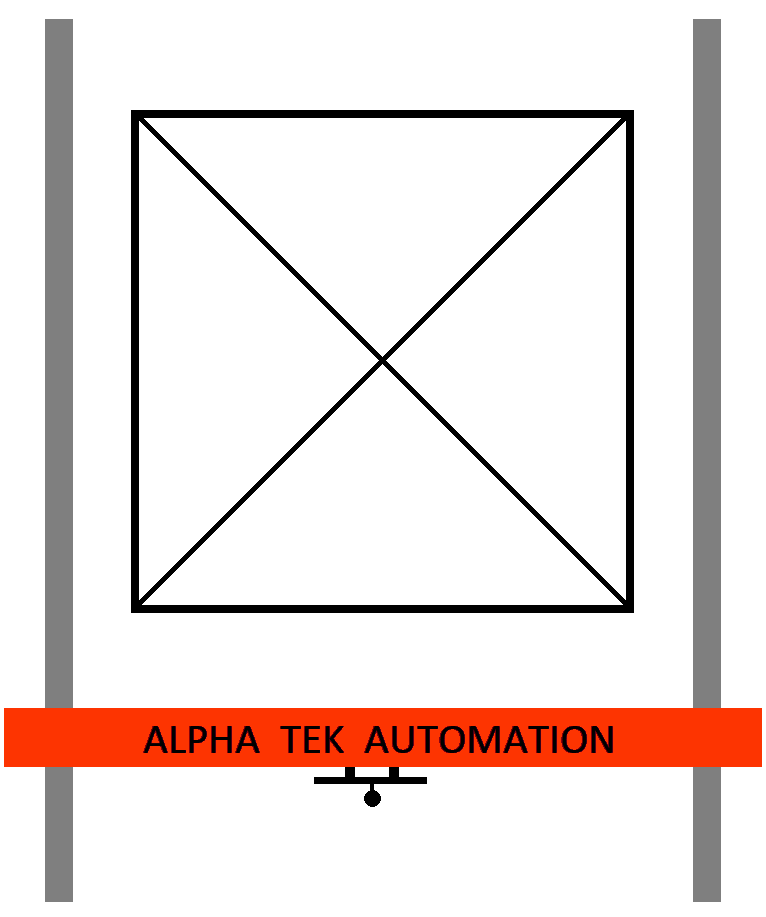
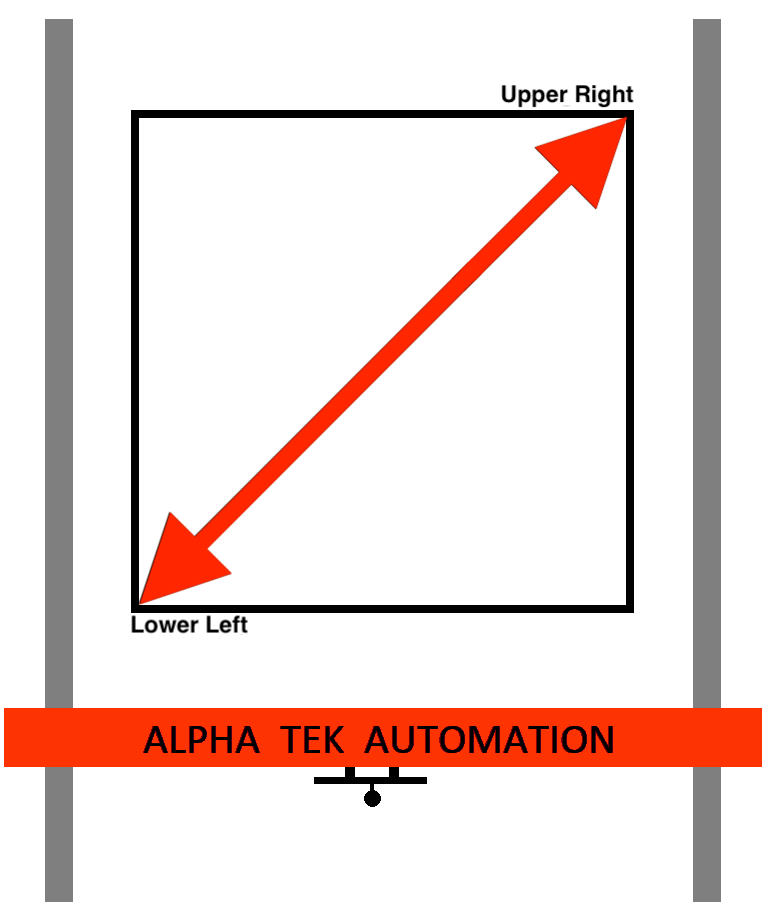
Refactor (#3)
* Update script.js

* bugs fixed, new features and design

diff --git a/script.js b/script.js
@@ -24,6 +24,40 @@ function showImage(imageId) {
   image.style.display = image.style.display === 'block' ? 'none' : 'block';
 }
 
+function decimalToInches(decimal) {
+    if (decimal < 0) {
+        throw new Error("Input must be a non-negative number");
+    }
+
+    const inches = Math.floor(decimal); // Get the whole inches
+    const fraction = decimal - inches; // Get the fractional part
+    const fractionsOfInch = 16; // Precision to 1/16 of an inch
+    const fractionRounded = Math.round(fraction * fractionsOfInch); // Round to nearest 1/16
+
+    // Handle special cases where fractionRounded equals fractionsOfInch
+    if (fractionRounded === fractionsOfInch) {
+        return `${inches + 1}"`;
+    }
+
+    const gcd = (a, b) => (b === 0 ? a : gcd(b, a % b)); // Helper function for greatest common divisor
+    const denominator = fractionsOfInch;
+    const numerator = fractionRounded;
+
+    // Reduce fraction
+    const divisor = gcd(numerator, denominator);
+    const simplifiedNumerator = numerator / divisor;
+    const simplifiedDenominator = denominator / divisor;
+
+    // Format the result
+    if (inches === 0 && simplifiedNumerator > 0) {
+        return `${simplifiedNumerator}/${simplifiedDenominator}"`; // Only fraction
+    } else if (simplifiedNumerator > 0) {
+        return `${inches} ${simplifiedNumerator}/${simplifiedDenominator}"`; // Whole inches and fraction
+    } else {
+        return `${inches}"`; // Only whole inches
+    }
+}
+
 document.getElementById("calcForm").addEventListener("submit", function (event) {
   event.preventDefault();
 
@@ -45,12 +79,11 @@ document.getElementById("calcForm").addEventListener("submit", function (event) 
   // Determine adjustments based on angle error and quadrilateral distortion
   if (Math.abs(angleError) > 0.01) { // Non-square threshold
       const shiftDistance = Math.tan(angleError * (Math.PI / 180)) * railDistance;
-
       if (shiftDistance > 0) {
-          adjustmentMessage = `Shift the left wheel forward by ${shiftDistance.toFixed(2)} inches or the right wheel backward by ${shiftDistance.toFixed(2)} inches.`;
-      } else {
-          adjustmentMessage = `Shift the right wheel forward by ${Math.abs(shiftDistance).toFixed(2)} inches or the left wheel backward by ${Math.abs(shiftDistance).toFixed(2)} inches.`;
-      }
+        adjustmentMessage = `Shift the left wheel forward by ${decimalToInches(shiftDistance)} or the right wheel backward by ${decimalToInches(shiftDistance)}.`;
+    } else {
+        adjustmentMessage = `Shift the right wheel forward by ${decimalToInches(Math.abs(shiftDistance).toFixed(2))} or the left wheel backward by ${decimalToInches(Math.abs(shiftDistance).toFixed(2))}.`;
+    }
   } else {
       adjustmentMessage = "The rig is properly calibrated.";
   }

diff --git a/index.html b/index.html
@@ -51,6 +51,20 @@
                 <input type="text" id="rails" name="rails" placeholder="Enter rails" required>
             </div>
 
+            <div class="form-group island" style="flex: 1 1 calc(25% - 20px); min-width: 200px;">
+                <label for="ll-ur-or-lr-ul">Which diagonal is longer?
+                    <button type="button" class="info-button" onclick="showImage('all-diagonals-image')">?</button>
+                </label>
+                <img id="all-diagonals-image" class="info-image" src="img/all_diagonals.png" alt="Diagonals Info Image">
+                <select id="ll-ur-or-lr-ul" name="ll-ur-or-lr-ul" style="min-width: 292px;">
+                    <option value="ll-ur">Lower Left to Upper Right</option>
+                    <option value="lr-ul">Lower Right to Upper Left</option>
+                </select>
+            </div>
+
+            <div class="form-group island" style="flex: 1 1 calc(25% - 20px); min-width: 200px;">
+            </div>
+
             <div style="flex-basis: 100%; text-align: center;">
                 <button type="submit" class="btn">Calculate</button>
             </div>

diff --git a/styles.css b/styles.css
@@ -113,3 +113,44 @@ h1 {
 .info-button:hover {
     background-color: #bdbdbd;
 }
+
+select {
+    width: 100%;
+    padding: 10px;
+    border: 1px solid #ced4da;
+    border-radius: 5px;
+    font-size: 14px;
+    background-color: #ffffff;
+    color: #343a40;
+    appearance: none;
+    cursor: pointer;
+}
+
+select:hover {
+    border-color: #bdbdbd;
+}
+
+select:focus {
+    outline: none;
+    border-color: #ea4826;
+    box-shadow: 0 0 4px rgba(234, 72, 38, 0.5);
+}
+
+.form-group input,
+.form-group select {
+    width: calc(100% - 20px); /* Matches the width calculation of the top div */
+    padding: 10px;
+    border: 1px solid #ced4da;
+    border-radius: 5px;
+    font-size: 14px;
+    background-color: #ffffff;
+    color: #343a40;
+}
+
+/* Focus style for inputs and dropdowns */
+.form-group input:focus,
+.form-group select:focus {
+    outline: none;
+    border-color: #ea4826; /* Same focus color as requested */
+    box-shadow: 0 0 4px rgba(234, 72, 38, 0.5);
+}
